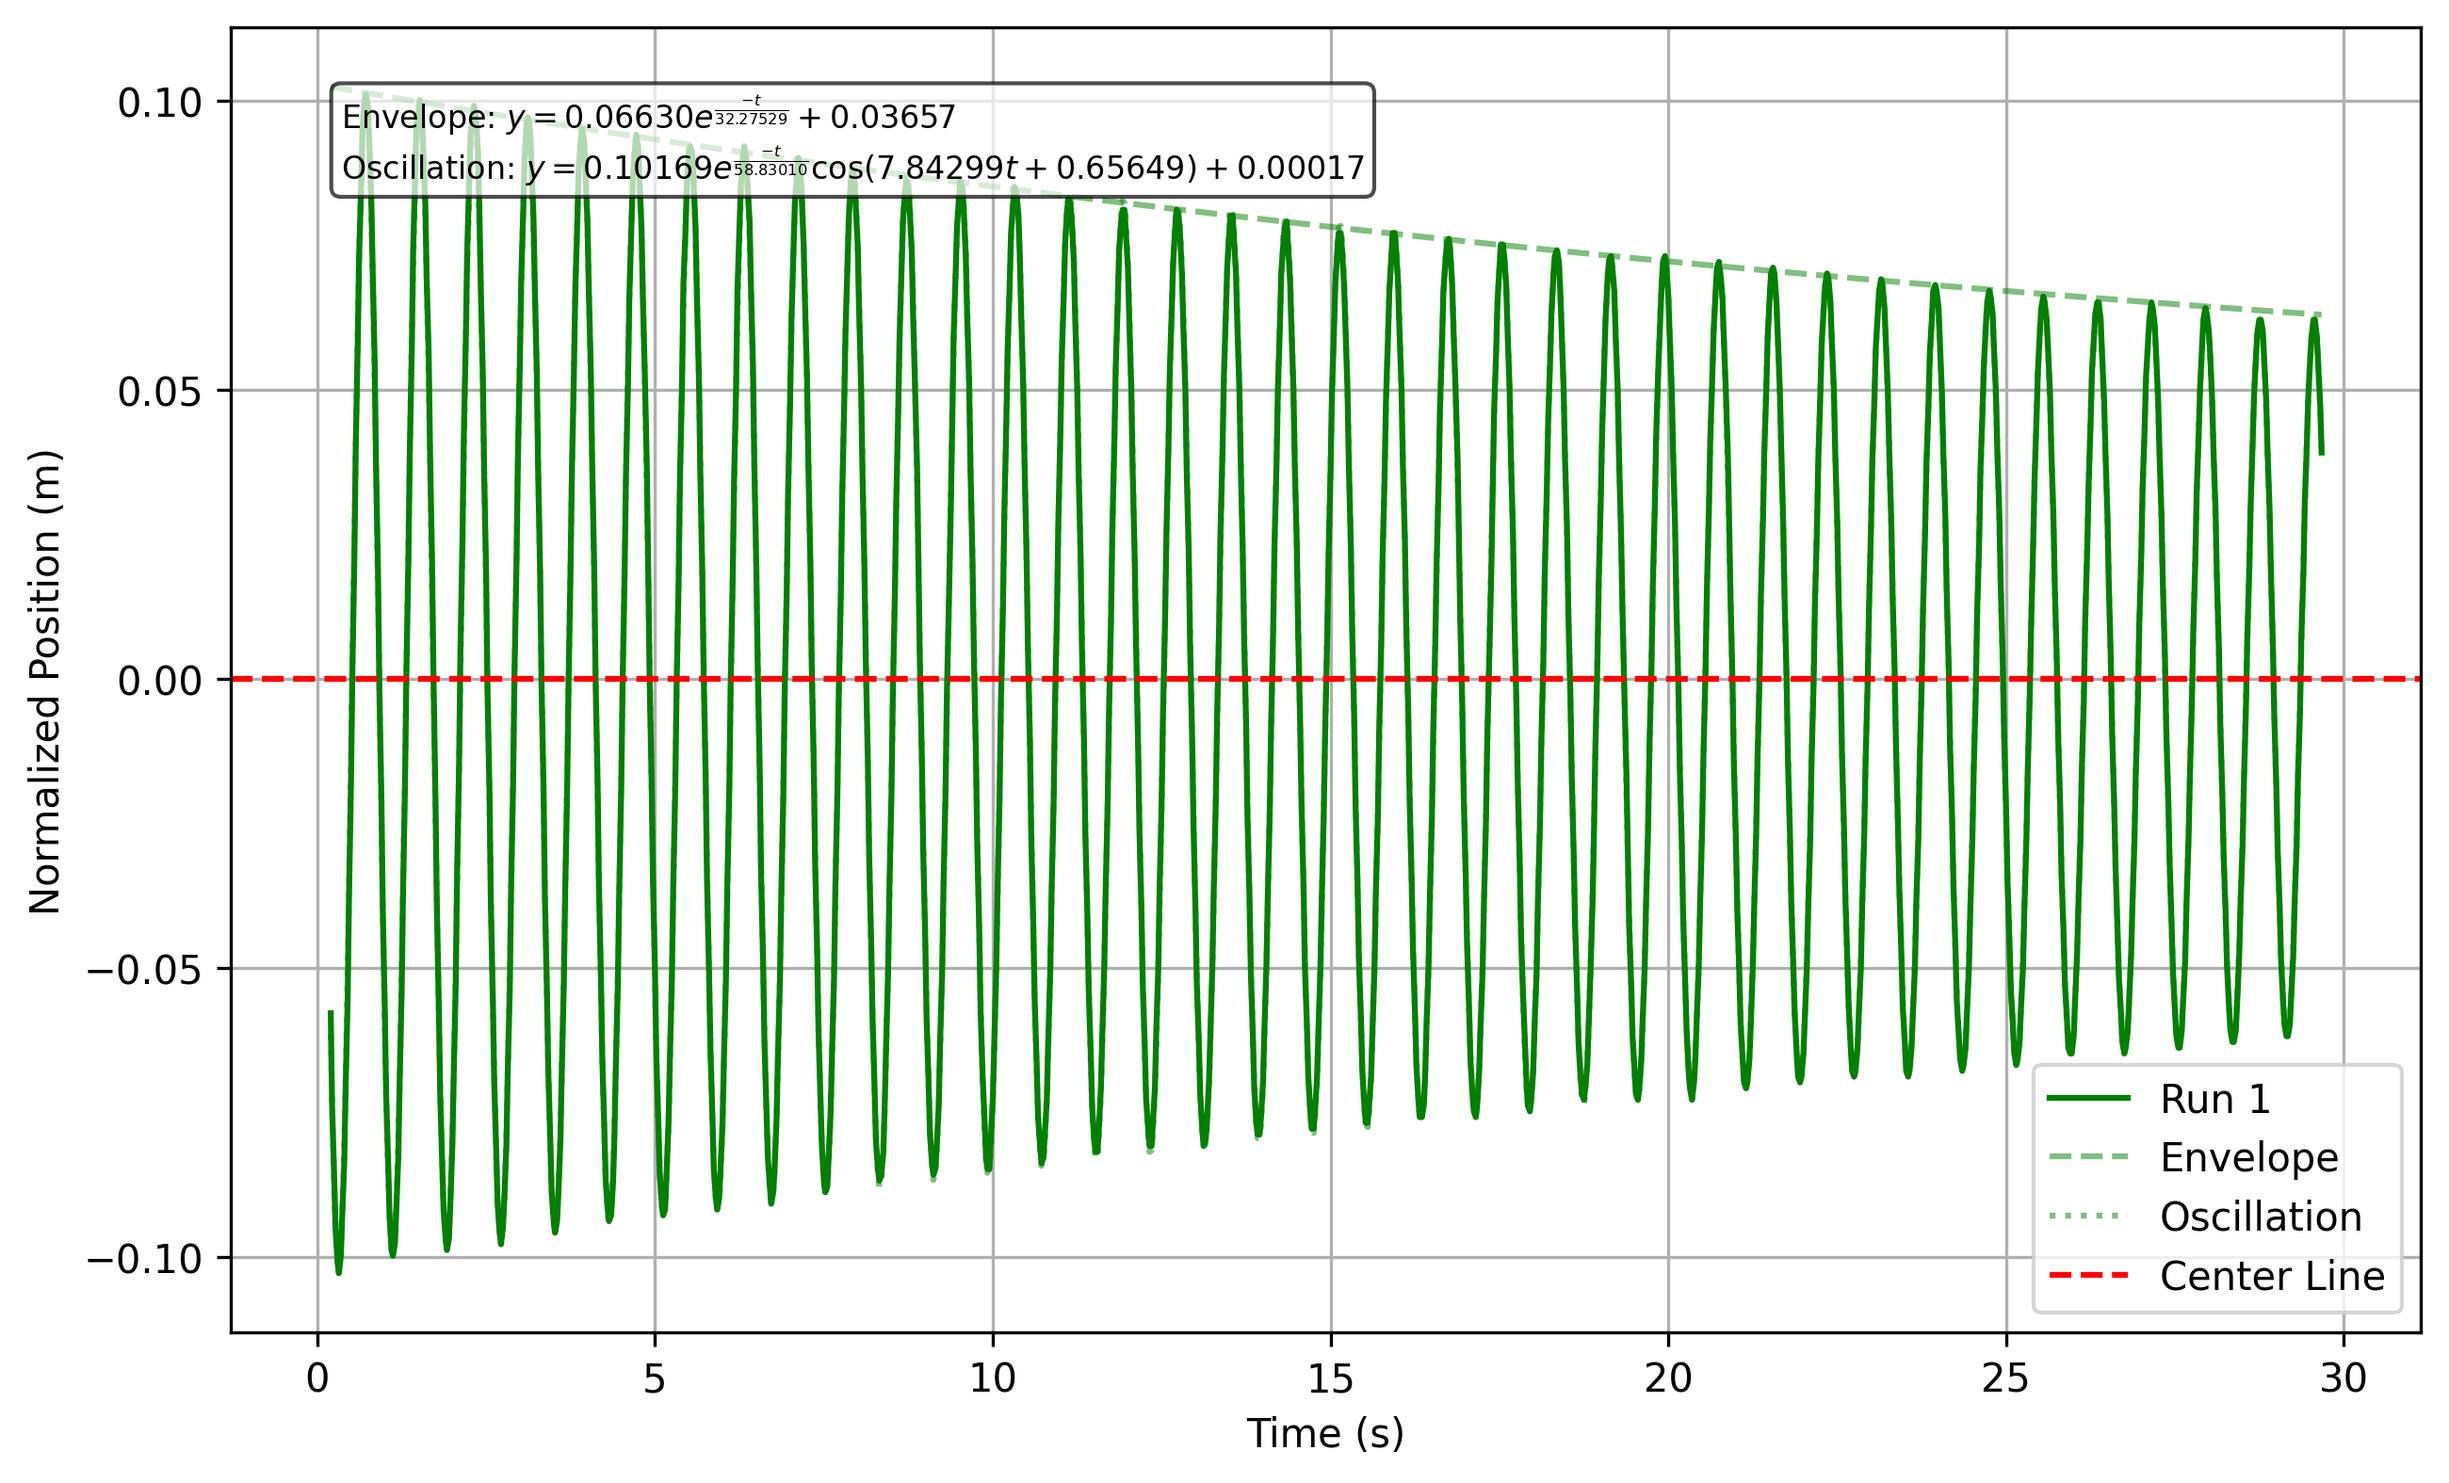
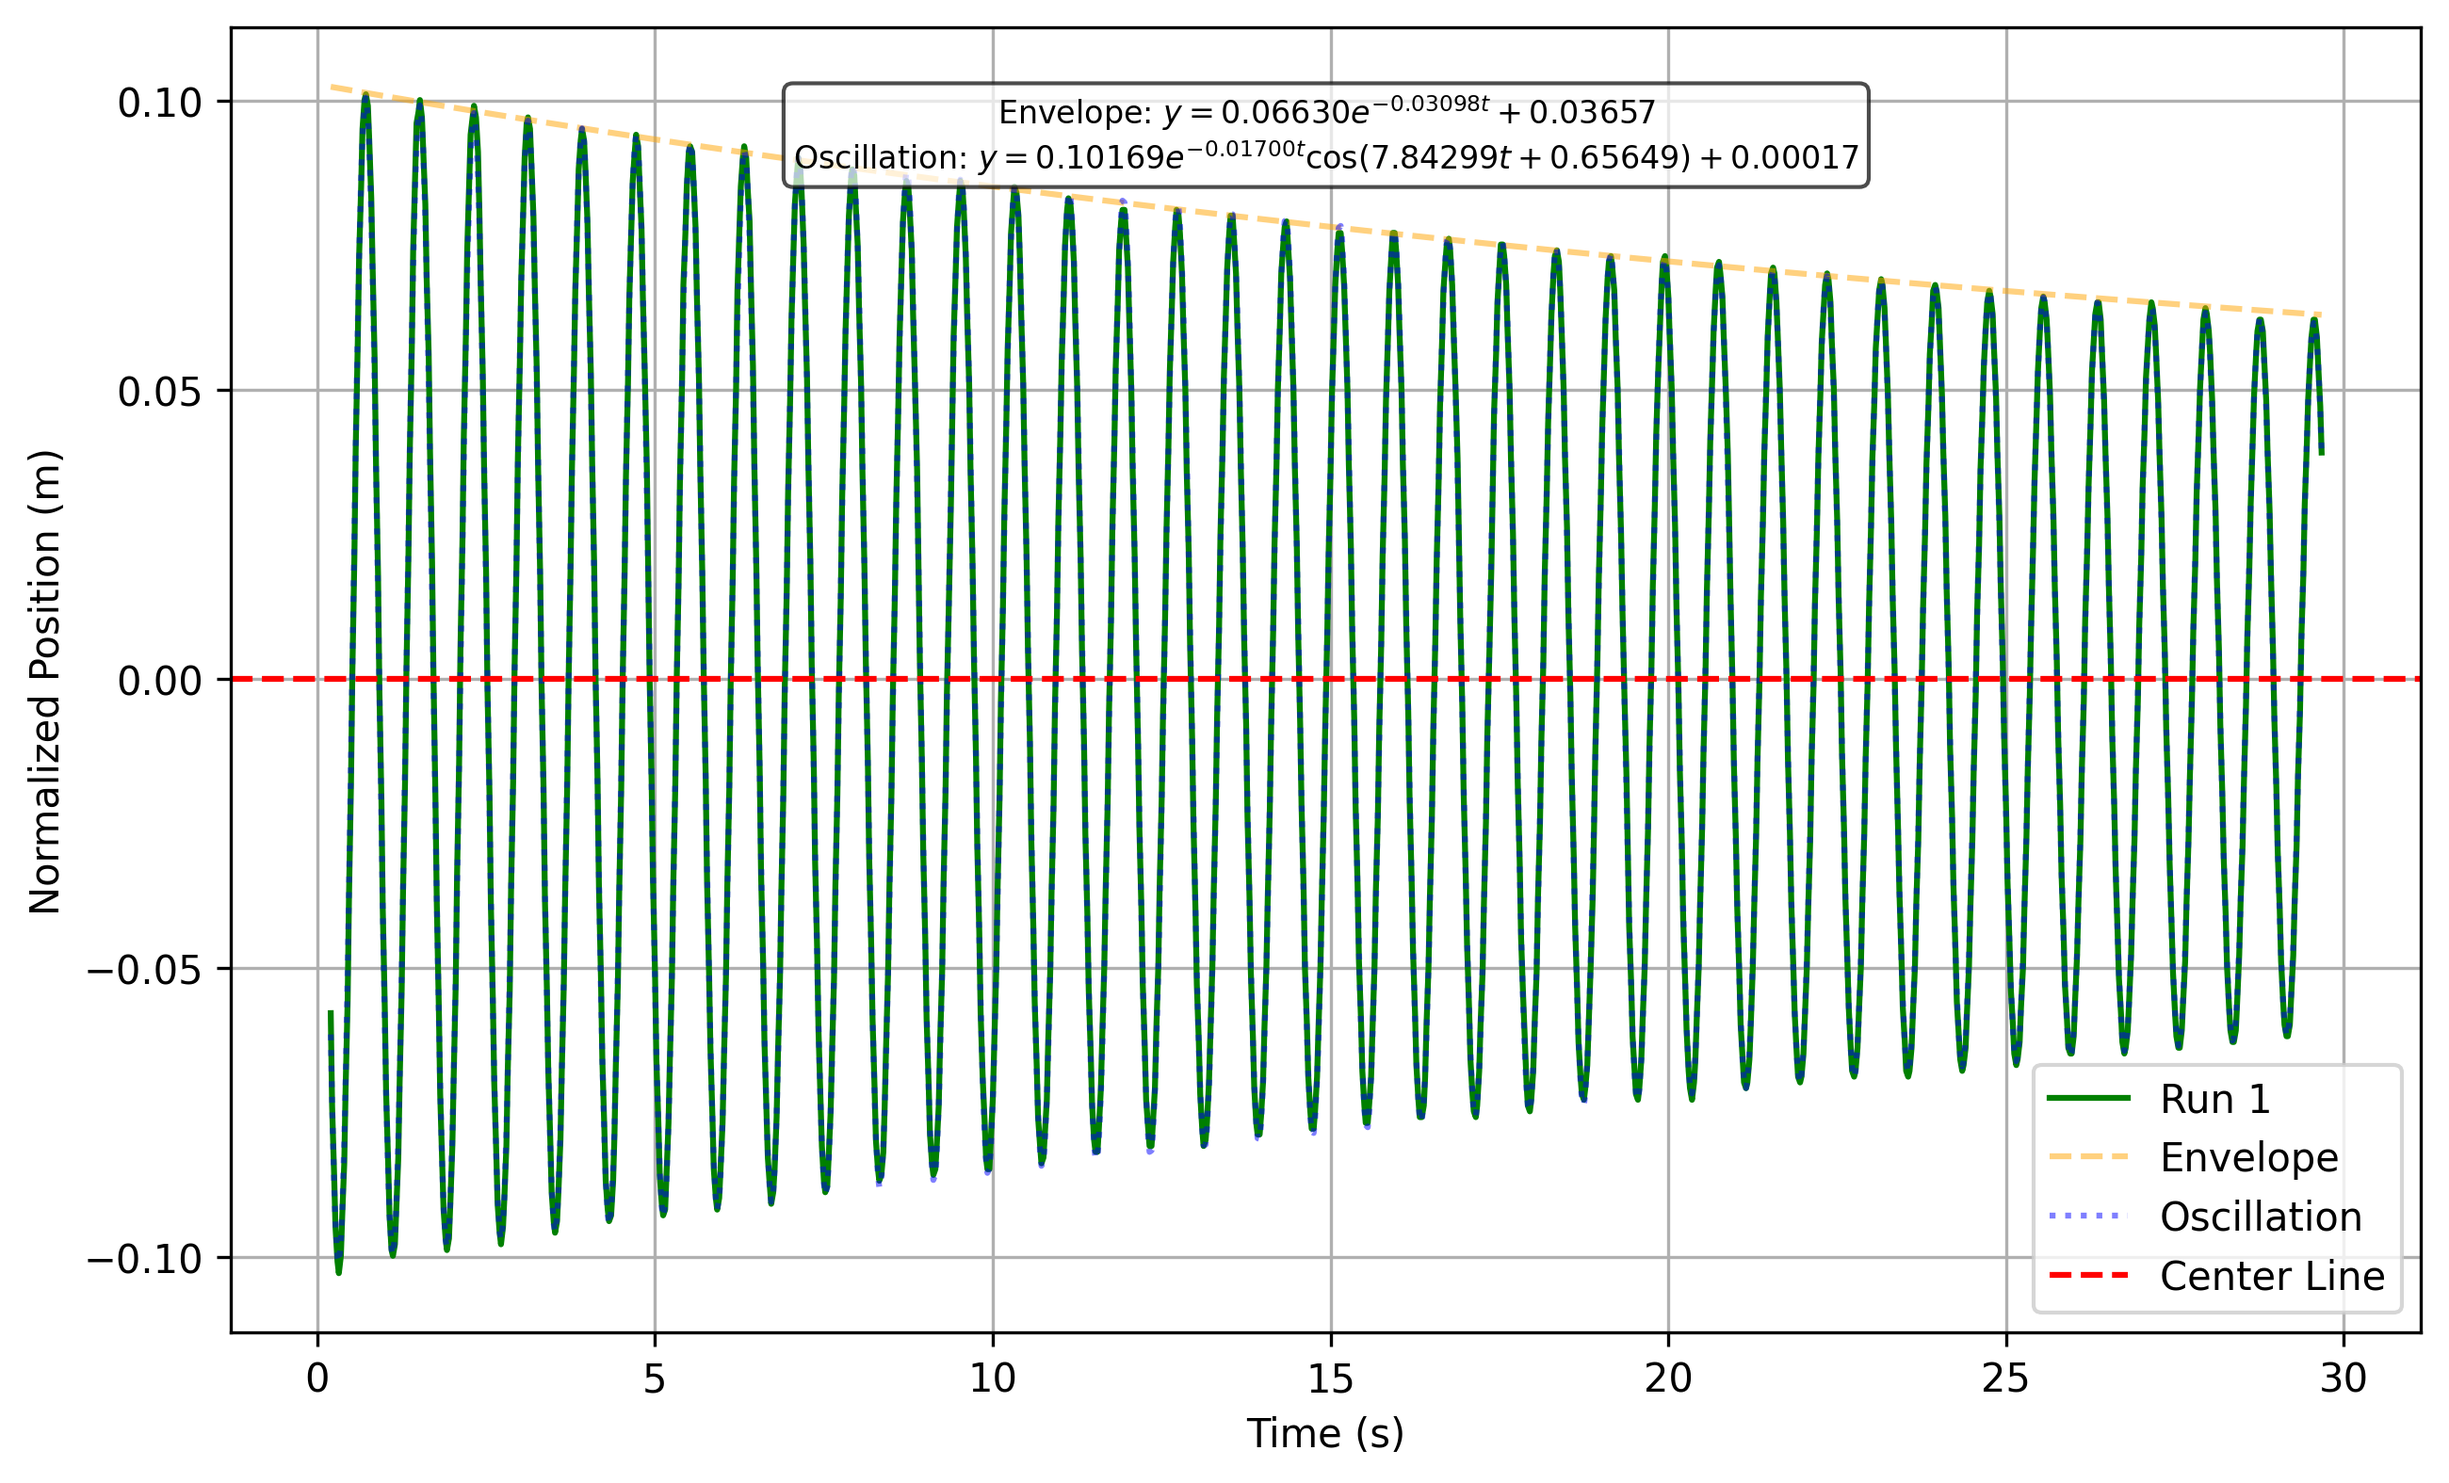
final lab 2 stuff

diff --git a/Lab2/analysis.py b/Lab2/analysis.py
@@ -21,11 +21,11 @@ all_runs_oscillate_equations = []
 
 # Define exponential decay function for envelope fitting
 def exp_decay(t, A, tau, C):
-    return A * np.exp(-t / tau) + C
+    return A * np.exp(-t * tau) + C
 
 # Define damped oscillation function for oscillation fitting
 def oscillation(t, A, tau, C, w, p):
-    return A * np.exp(-t / tau) * np.cos(w * t + p) + C
+    return A * np.exp(-t * tau) * np.cos(w * t + p) + C
 
 # Process each run
 for i in range(len(run_starts)):
@@ -79,8 +79,8 @@ for i in range(len(run_starts)):
     all_runs_position.append(normalized_position)
     all_runs_envelope.append(envelope)
     all_runs_oscillate.append(oscillate)
-    all_runs_envelope_equations.append(f"$y = {A_env:.5f} e^{{\\frac{{-t}}{{{tau_env:.5f}}}}} + {C_env:.5f}$")
-    all_runs_oscillate_equations.append(f"$y = {A_osc:.5f} e^{{\\frac{{-t}}{{{tau_osc:.5f}}}}} \cos({w:.5f}t + {p:.5f}) + {C_osc:.5f}$")
+    all_runs_envelope_equations.append(f"$y = {A_env:.5f} e^{{-{tau_env:.5f}t}} + {C_env:.5f}$")
+    all_runs_oscillate_equations.append(f"$y = {A_osc:.5f} e^{{-{tau_osc:.5f}t}} \cos({w:.5f}t + {p:.5f}) + {C_osc:.5f}$")
 
 # Create main figure with all runs
 fig, ax = plt.subplots(figsize=(10, 6))
@@ -166,12 +166,14 @@ colors = ['green', 'orange', 'blue', 'red', 'purple']
 for i in range(len(all_runs_time)):
     fig, ax = plt.subplots(figsize=(10, 6))
     
-    color = colors[i % len(colors)]
+    color_data = colors[i % len(colors)]
+    color_envelope = colors[(i + 1) % len(colors)]
+    color_oscillation = colors[(i + 2) % len(colors)]
     
     # Plot data, envelope, and oscillation
-    ax.plot(all_runs_time[i], all_runs_position[i], label=f'Run {i+1}', color=color)
-    ax.plot(all_runs_time[i], all_runs_envelope[i], '--', alpha=0.5, label='Envelope', color=color)
-    ax.plot(all_runs_time[i], all_runs_oscillate[i], ':', alpha=0.5, label='Oscillation', color=color)
+    ax.plot(all_runs_time[i], all_runs_position[i], label=f'Run {i+1}', color=color_data)
+    ax.plot(all_runs_time[i], all_runs_envelope[i], '--', alpha=0.5, label='Envelope', color=color_envelope)
+    ax.plot(all_runs_time[i], all_runs_oscillate[i], ':', alpha=0.5, label='Oscillation', color=color_oscillation)
     
     # Set labels and grid
     ax.set_xlabel('Time (s)')
@@ -180,10 +182,9 @@ for i in range(len(all_runs_time)):
     ax.axhline(y=0, color='r', linestyle='--', label='Center Line')
     
     # Add equation text
-    ax.text(0.05, 0.95, f"Envelope: {all_runs_envelope_equations[i]}\nOscillation: {all_runs_oscillate_equations[i]}", 
-            transform=ax.transAxes, fontsize=8, verticalalignment='top', 
+    ax.text(0.5, 0.95, f"Envelope: {all_runs_envelope_equations[i]}\nOscillation: {all_runs_oscillate_equations[i]}", 
+            transform=ax.transAxes, fontsize=8, verticalalignment='top', horizontalalignment='center',
             bbox=dict(boxstyle='round', facecolor='white', alpha=0.7))
-    
     ax.legend()
     
     # Save the figure

diff --git a/Lab2/graph.py b/Lab2/graph.py
@@ -1,0 +1,56 @@
+import matplotlib.pyplot as plt
+import numpy as np
+from scipy.optimize import curve_fit
+
+# Define your data here
+area = [13, 50, 113, 201, 314]  # List for area values (x-axis)
+b_value1 = [0.4248, 1.374, 3.300, 5.588, 9.900]  # Oscillation damping constants (y-axis)
+b_value2 = [0.4238, 1.736, 4.760, 8.028, 14.13]  # Envelope damping constants (y-axis)
+
+# Define linear function for fitting
+def linear(x, m, b):
+    return m * x + b
+
+# Fit the data
+popt1, _ = curve_fit(linear, area, b_value1)
+popt2, _ = curve_fit(linear, area, b_value2)
+
+# Create two separate plots
+for i, (b_value, popt, title, color) in enumerate([
+    (b_value1, popt1, 'Oscillation Damping Constant', 'blue'),
+    (b_value2, popt2, 'Envelope Damping Constant', 'red')
+]):
+    plt.figure(figsize=(10, 6))
+    plt.scatter(area, b_value, color=color, label=title)
+
+    # Plot fitted line
+    x_fit = np.linspace(min(area), max(area), 100)
+    plt.plot(x_fit, linear(x_fit, *popt), ':', color=color, label='Fitted Line')
+
+    # Set labels for axes
+    plt.xlabel('Area (cm$^2$)')
+    plt.ylabel('Damping constant')
+
+    # Add legend
+    plt.legend()
+
+    # Add grid lines for better readability
+    plt.grid(True, linestyle='--', alpha=0.7)
+
+    # Display equation in LaTeX format
+    eq = f'$y = {popt[0]:.4f}x {popt[1]:+.4f}$'
+    plt.text(0.5, 0.95, eq, transform=plt.gca().transAxes, fontsize=12, 
+             verticalalignment='top', horizontalalignment='center',
+             bbox=dict(boxstyle='round', facecolor='white', alpha=0.8))
+
+    # Set title
+    plt.title(title)
+
+    # Adjust layout to prevent cutting off labels
+    plt.tight_layout()
+
+    # Save the plot as a PNG file
+    plt.savefig(f'images/b-area_{title.lower().replace(" ", "_")}.png', dpi=300, bbox_inches='tight')
+
+    # Display the plot
+    plt.show()

diff --git a/Lab2/error.py b/Lab2/error.py
@@ -1,0 +1,43 @@
+# Import necessary libraries
+import numpy as np
+
+# Read data from file
+with open('data.txt', 'r') as file:
+    content = file.readlines()
+
+# Find the start of each run in the data file
+run_starts = [i for i, line in enumerate(content) if line.strip() == 'Vernier Format 2']
+
+# Initialize list to store standard deviations for all runs
+all_runs_std = []
+
+# Process each run
+for i in range(len(run_starts)):
+    # Extract data for current run
+    start = run_starts[i] + 8
+    end = (run_starts[i+1] - 7) if i+1 < len(run_starts) else len(content)
+    run_data = np.loadtxt(content[start:end], usecols=(0, 1))
+    
+    # Remove first and last few data points if not the last run
+    if i < len(run_starts) - 1:
+        run_data = run_data[7:-6]
+    else:
+        run_data = run_data[7:]
+    
+    # Normalize position data
+    center_line = np.mean(run_data[:, 1])
+    normalized_position = run_data[:, 1] - center_line
+    
+    # Calculate standard deviation
+    std_dev = np.std(normalized_position)
+    
+    # Store result for this run
+    all_runs_std.append(std_dev)
+
+# Print standard deviations for each run
+for i, std in enumerate(all_runs_std):
+    print(f"Run {i+1} standard deviation: {std:.6f}")
+
+# Calculate overall standard deviation
+overall_std = np.sqrt(np.mean(np.array(all_runs_std)**2))
+print(f"\nOverall standard deviation: {overall_std:.6f}")
